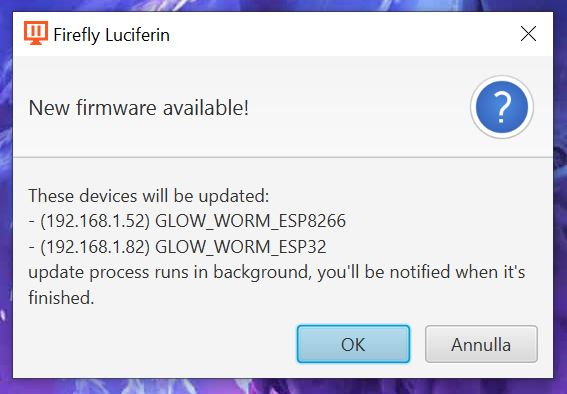
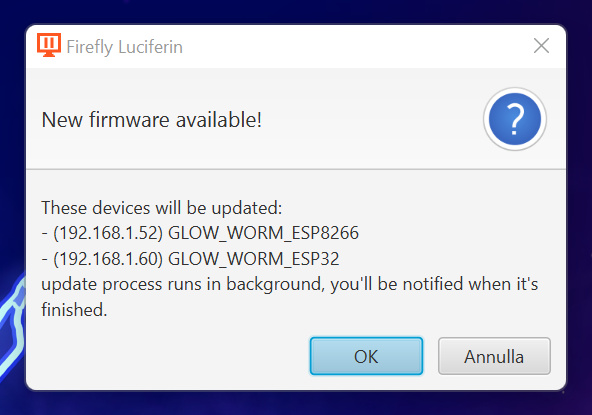
language pack + night mode fix

diff --git a/src/main/java/org/dpsoftware/managers/UpgradeManager.java b/src/main/java/org/dpsoftware/managers/UpgradeManager.java
@@ -250,7 +250,7 @@ public class UpgradeManager {
                 } else {
                     upgradeContext = CommonUtility.getWord(Constants.CLICK_OK_DOWNLOAD_LINUX) + CommonUtility.getWord(Constants.ONCE_DOWNLOAD_FINISHED);
                 }
-                Optional<ButtonType> result = FireflyLuciferin.guiManager.showWebAlert(CommonUtility.getWord(Constants.FIREFLY_LUCIFERIN),
+                Optional<ButtonType> result = FireflyLuciferin.guiManager.showWebAlert(Constants.FIREFLY_LUCIFERIN,
                         CommonUtility.getWord(Constants.NEW_VERSION_AVAILABLE) + " " + upgradeContext,
                         CommonUtility.getWord(Constants.GITHUB_CHANGELOG), Alert.AlertType.CONFIRMATION);
                 ButtonType button = result.orElse(ButtonType.OK);
@@ -308,7 +308,7 @@ public class UpgradeManager {
                             } else {
                                 upgradeMessage = CommonUtility.getWord(Constants.UPDATE_NEEDED);
                             }
-                            Optional<ButtonType> result = FireflyLuciferin.guiManager.showAlert(CommonUtility.getWord(Constants.FIREFLY_LUCIFERIN),
+                            Optional<ButtonType> result = FireflyLuciferin.guiManager.showAlert(Constants.FIREFLY_LUCIFERIN,
                                     CommonUtility.getWord(Constants.NEW_FIRMWARE_AVAILABLE),deviceContent + deviceToUpdateStr
                                             + (FireflyLuciferin.config.isWifiEnable() ? CommonUtility.getWord(Constants.UPDATE_BACKGROUND) : upgradeMessage)
                                             + "\n", Alert.AlertType.CONFIRMATION);
@@ -452,7 +452,7 @@ public class UpgradeManager {
             transferedSize += fos.getChannel().transferFrom( rbc, transferedSize, 1 << 8);
         }
         if (transferedSize >= expectedSize) {
-            log.info(transferedSize + Constants.DOWNLOAD_COMPLETE);
+            log.info(transferedSize + " " + CommonUtility.getWord(Constants.DOWNLOAD_COMPLETE));
         }
         fos.close();
 

diff --git a/src/main/java/org/dpsoftware/network/tcpUdp/UdpServer.java b/src/main/java/org/dpsoftware/network/tcpUdp/UdpServer.java
@@ -121,7 +121,7 @@ public class UdpServer {
                             } else if (UpgradeManager.deviceNameForSerialDevice.equals(received)) {
                                 log.debug("Update successfull=" + received);
                                 if (!CommonUtility.isSingleDeviceMultiScreen() || CommonUtility.isSingleDeviceMainInstance()) {
-                                    javafx.application.Platform.runLater(() -> FireflyLuciferin.guiManager.showAlert(CommonUtility.getWord(Constants.FIREFLY_LUCIFERIN),
+                                    javafx.application.Platform.runLater(() -> FireflyLuciferin.guiManager.showAlert(Constants.FIREFLY_LUCIFERIN,
                                             CommonUtility.getWord(Constants.UPGRADE_SUCCESS), received + CommonUtility.getWord(Constants.DEVICEUPGRADE_SUCCESS),
                                             Alert.AlertType.INFORMATION));
                                 }

diff --git a/src/main/java/org/dpsoftware/managers/MQTTManager.java b/src/main/java/org/dpsoftware/managers/MQTTManager.java
@@ -253,7 +253,7 @@ public class MQTTManager implements MqttCallback {
             if (UpgradeManager.deviceNameForSerialDevice.equals(message.toString())) {
                 log.debug("Update successfull=" + message);
                 if (!CommonUtility.isSingleDeviceMultiScreen() || CommonUtility.isSingleDeviceMainInstance()) {
-                    javafx.application.Platform.runLater(() -> FireflyLuciferin.guiManager.showAlert(CommonUtility.getWord(Constants.FIREFLY_LUCIFERIN),
+                    javafx.application.Platform.runLater(() -> FireflyLuciferin.guiManager.showAlert(Constants.FIREFLY_LUCIFERIN,
                             CommonUtility.getWord(Constants.UPGRADE_SUCCESS), message + CommonUtility.getWord(Constants.DEVICEUPGRADE_SUCCESS),
                             Alert.AlertType.INFORMATION));
                 }

diff --git a/src/main/java/org/dpsoftware/config/Constants.java b/src/main/java/org/dpsoftware/config/Constants.java
@@ -727,7 +727,7 @@ public class Constants {
 	public static final String REGISTRY_KEY_NAME = "FireflyLuciferin";
 	public static final String REGISTRY_KEY_VALUE_WINDOWS = "Firefly Luciferin.exe";
 	public static final String REGISTRY_KEY_VALUE_LINUX = "bin/FireflyLuciferin";
-	public static final String REGISTRY_DEFAULT_KEY_VALUE = "C:\\Users\\sblantipodi\\AppData\\Local\\Firefly Luciferin\\Firefly Luciferin.exe";
+	public static final String REGISTRY_DEFAULT_KEY_VALUE = "C:\\Users\\perin\\AppData\\Local\\Firefly Luciferin\\Firefly Luciferin.exe";
 	public static final String REGISTRY_JARNAME_WINDOWS = "app\\FireflyLuciferin-jar-with-dependencies.jar";
 	public static final String REGISTRY_JARNAME_LINUX = "lib/app/FireflyLuciferin-jar-with-dependencies.jar";
 

diff --git a/src/main/java/org/dpsoftware/gui/controllers/DevicesTabController.java b/src/main/java/org/dpsoftware/gui/controllers/DevicesTabController.java
@@ -249,11 +249,7 @@ public class DevicesTabController {
     public void save(Configuration config) {
 
         config.setPowerSaving(LocalizedEnum.fromStr(Constants.PowerSaving.class, powerSaving.getValue()).getBaseI18n());
-        switch (multiMonitor.getValue()) {
-            case Constants.MULTIMONITOR_2 -> config.setMultiMonitor(2);
-            case Constants.MULTIMONITOR_3 -> config.setMultiMonitor(3);
-            default -> config.setMultiMonitor(1);
-        }
+        config.setMultiMonitor(multiMonitor.getSelectionModel().getSelectedIndex() + 1);
         config.setCheckForUpdates(checkForUpdates.isSelected());
         config.setMultiScreenSingleDevice(multiScreenSingleDevice.isSelected());
         config.setSyncCheck(syncCheck.isSelected());
